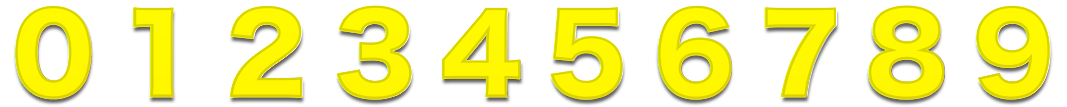
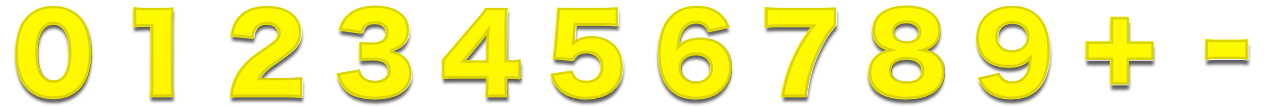
数字画像に符号を追加した

diff --git a/src/canvas/number/number.js b/src/canvas/number/number.js
@@ -1,79 +1,7 @@
 // @flow
 
-/**
- * キャンバスに画像数字を描画する
- * ローカル座標原点は数字の左上となる
- *
- * @param context 描画対象のキャンバスコンテキスト
- * @param image 数字画像
- * @param dx 描画X
- * @param dy 描画Y
- * @param value 描画する数字の値
- */
-export function drawNumberLeft(context: CanvasRenderingContext2D, image: Image, dx: number, dy: number, value: number): void {
-  const basicWidth = image.width / 10;
-
-  createNumberArray(value).forEach((num, index) => {
-    const x = dx + basicWidth * index;
-    drawSingleNumber(context, image, x, dy, num);
-  });
-}
-
-/**
- * キャンバスに画像数字を描画する
- * ローカル座標原点は数字の右上となる
- *
- * @param context 描画対象のキャンバスコンテキスト
- * @param image 数字画像
- * @param dx 描画X
- * @param dy 描画Y
- * @param value 描画する数字の値
- */
-export function drawNumberRight(context: CanvasRenderingContext2D, image: Image, dx: number, dy: number, value: number): void {
-  const basicWidth = image.width / 10;
-
-  const numberArray = createNumberArray(value);
-  const numberDigit = numberArray.length;
-
-  const x = dx - basicWidth * numberDigit;
-  drawNumberLeft(context, image, x, dy, value);
-}
-
-/**
- * キャンバスに画像数字を描画する
- * ローカル座標原点は数字の中央となる
- *
- * @param context 描画対象のキャンバスコンテキスト
- * @param image 数字画像
- * @param dx 描画X
- * @param dy 描画Y
- * @param value 描画する数字の値
- */
-export function drawNumberCenter(context: CanvasRenderingContext2D, image: Image, dx: number, dy: number, value: number): void {
-  const basicWidth = image.width / 10;
-
-  const numberArray = createNumberArray(value);
-  const numberDigit = numberArray.length;
-
-  const x = dx - basicWidth * numberDigit / 2;
-  const y = dy - image.height / 2;
-  drawNumberLeft(context, image, x, y, value);
-}
-
-/**
- * 数字を数字配列に変換する
- *
- * 例)
- * createNumberArray(1234)
- * -> [1, 2, 3, 4]
- *
- * @aram value 変換元
- * @return 変換結果
- */
-function createNumberArray(value: number): number[] {
-  return String(value)
-    .split('')
-    .map(v => Number(v));
+export function getBasicWidth(image: Image): number {
+  return image.width / 12;
 }
 
 /**
@@ -96,7 +24,7 @@ function drawSingleNumber(context: CanvasRenderingContext2D, image: Image, dx: n
     }
     return value;
   })();
-  const basicWidth = image.width / 10;
+  const basicWidth = getBasicWidth(image);
 
   const sx = validValue * basicWidth;
   const sy = 0;
@@ -108,3 +36,78 @@ function drawSingleNumber(context: CanvasRenderingContext2D, image: Image, dx: n
   context.drawImage(image, sx, sy, sw, sh, dx, dy, dw, dh);
 }
 
+/**
+ * 数字を数字配列に変換するヘルパー関数
+ *
+ * 例)
+ * createNumberArray(1234)
+ * -> [1, 2, 3, 4]
+ *
+ * @aram value 変換元
+ * @return 変換結果
+ */
+function createNumberArray(value: number): number[] {
+  return String(value)
+    .split('')
+    .map(v => Number(v));
+}
+
+/**
+ * キャンバスに画像数字を描画する
+ * ローカル座標原点は数字の左上となる
+ *
+ * @param context 描画対象のキャンバスコンテキスト
+ * @param image 数字画像
+ * @param dx 描画X
+ * @param dy 描画Y
+ * @param value 描画する数字の値
+ */
+export function drawNumberLeft(context: CanvasRenderingContext2D, image: Image, dx: number, dy: number, value: number): void {
+  const basicWidth = getBasicWidth(image);
+
+  createNumberArray(value).forEach((num, index) => {
+    const x = dx + basicWidth * index;
+    drawSingleNumber(context, image, x, dy, num);
+  });
+}
+
+/**
+ * キャンバスに画像数字を描画する
+ * ローカル座標原点は数字の右上となる
+ *
+ * @param context 描画対象のキャンバスコンテキスト
+ * @param image 数字画像
+ * @param dx 描画X
+ * @param dy 描画Y
+ * @param value 描画する数字の値
+ */
+export function drawNumberRight(context: CanvasRenderingContext2D, image: Image, dx: number, dy: number, value: number): void {
+  const basicWidth = getBasicWidth(image);
+
+  const numberArray = createNumberArray(value);
+  const numberDigit = numberArray.length;
+
+  const x = dx - basicWidth * numberDigit;
+  drawNumberLeft(context, image, x, dy, value);
+}
+
+/**
+ * キャンバスに画像数字を描画する
+ * ローカル座標原点は数字の中央となる
+ *
+ * @param context 描画対象のキャンバスコンテキスト
+ * @param image 数字画像
+ * @param dx 描画X
+ * @param dy 描画Y
+ * @param value 描画する数字の値
+ */
+export function drawNumberCenter(context: CanvasRenderingContext2D, image: Image, dx: number, dy: number, value: number): void {
+  const basicWidth = getBasicWidth(image);
+
+  const numberArray = createNumberArray(value);
+  const numberDigit = numberArray.length;
+
+  const x = dx - basicWidth * numberDigit / 2;
+  const y = dy - image.height / 2;
+  drawNumberLeft(context, image, x, y, value);
+}

diff --git a/src/game-object/recover-battery/view/player-recover-battery-view.js b/src/game-object/recover-battery/view/player-recover-battery-view.js
@@ -8,6 +8,7 @@ import type {CanvasImageResource} from "../../../resource/canvas-image";
 import {CANVAS_IMAGE_IDS} from "../../../resource/canvas-image";
 import {drawNumberCenter} from "../../../canvas/number/number";
 import type {Resources} from "../../../resource";
+import {drawImageInCenter} from "../../../canvas/draw/image-drawer";
 
 export const CANVAS_SIZE = 128;
 export const MESH_SIZE = 180;
@@ -55,13 +56,17 @@ export class PlayerRecoverBatteryView implements RecoverBatteryView {
 
   _refreshCanvas(model: RecoverBatteryModel): void {
     this._canvasMesh.draw(context => {
-      const batteryNumberResource: ?CanvasImageResource = this._resources.canvasImages.find(v => v.id === CANVAS_IMAGE_IDS.BATTERY_NUMBER);
-      const batteryNumber: Image = batteryNumberResource ? batteryNumberResource.image : new Image();
-      const x = context.canvas.width / 2;
-      const y = context.canvas.height / 2;
+      // const batteryNumberResource: ?CanvasImageResource = this._resources.canvasImages.find(v => v.id === CANVAS_IMAGE_IDS.BATTERY_NUMBER);
+      // const batteryNumber: Image = batteryNumberResource ? batteryNumberResource.image : new Image();
+      // const numberSignResource: ?CanvasImageResource = this._resources.canvasImages.find(v => v.id === CANVAS_IMAGE_IDS.BATTERY_NUMBER_SIGN);
+      // const numberSign: Image = numberSignResource ? numberSignResource.image : new Image();
+      //
+      // const x = context.canvas.width / 2;
+      // const y = context.canvas.height / 2;
 
       context.clearRect(0, 0, context.canvas.height, context.canvas.height);
-      drawNumberCenter(context, batteryNumber, x, y, 3);
+      // drawNumberCenter(context, batteryNumber, x+32, y, 3);
+      // drawImageInCenter(context, numberSign, x, y);
     });
   }
 

diff --git a/src/resource/canvas-image.js b/src/resource/canvas-image.js
@@ -35,7 +35,6 @@ export const CANVAS_IMAGE_IDS = {
   TURN_INDICATOR: 'TURN_INDICATOR',
   BURST_BUTTON: 'BURST_BUTTON',
   BATTERY_NUMBER: 'BATTERY_NUMBER',
-  BATTERY_NUMBER_SIGN: 'BATTERY_NUMBER_SIGN',
   DAMAGE_NUMBER: 'DAMAGE_NUMBER',
 };
 
@@ -104,10 +103,6 @@ export const CANVAS_IMAGE_CONFIGS: CanvasImageConfig[] = [
   {
     id: CANVAS_IMAGE_IDS.BATTERY_NUMBER,
     path: 'battery-number/battery-number.png',
-  },
-  {
-    id: CANVAS_IMAGE_IDS.BATTERY_NUMBER_SIGN,
-    path: 'battery-number/battery-number-sign.png',
   },
   {
     id: CANVAS_IMAGE_IDS.DAMAGE_NUMBER,
